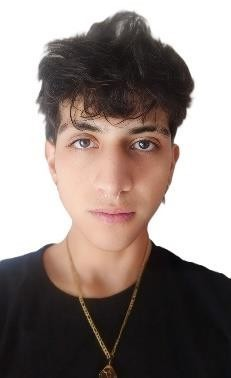
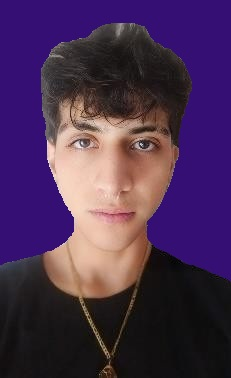
Subiendo cambios

diff --git a/components/hero.html b/components/hero.html
@@ -25,16 +25,69 @@
                     </div>
                 </div>
                 <div class="col-lg-6 text-center">
-                    <div class="profile-container">
+                    <div class="profile-image-container">
+                        <svg class="hero-svg" viewBox="0 0 800 800" xmlns="http://www.w3.org/2000/svg">
+                        <!-- Resplandor azul -->
+                        <circle cx="400" cy="350" r="250" fill="#3b82f6" opacity="0.1" filter="url(#blur)"/>
 
-                            <img src="img/Didier-Najas-photo.jpg" alt="Didier Najas" class="profile-image" loading="lazy">
+                        <defs>
+                            <filter id="blur"><feGaussianBlur stdDeviation="60"/></filter>
+                            <filter id="soft"><feGaussianBlur stdDeviation="6"/></filter>
+                            <filter id="glow"><feGaussianBlur stdDeviation="4" result="b"/><feMerge><feMergeNode in="b"/><feMergeNode in="SourceGraphic"/></feMerge></filter>
+                        </defs>
 
-                            <div class="floating-icons">
-                                <span class="icon-float"><i class="fab fa-java"></i></span>
-                                <span class="icon-float"><i class="fas fa-leaf"></i></span>
-                                <span class="icon-float"><i class="fab fa-js-square"></i></span>
-                            </div>
-                        </div>
+                        <!-- CAPUCHA (forma grande detrás) -->
+                        <path d="M400 150 C250 150 180 280 190 420 L170 550 L260 500 L280 600 L350 540 
+                                L400 620 L450 540 L520 600 L540 500 L630 550 L610 420 C620 280 550 150 400 150 Z" 
+                                fill="#1e293b" stroke="#3b82f6" stroke-width="4"/>
+
+                        <!-- Interior de la capucha (sombra) -->
+                        <ellipse cx="400" cy="360" rx="145" ry="160" fill="#0f172a"/>
+
+                        <!-- CARA -->
+                        <ellipse cx="400" cy="370" rx="115" ry="125" fill="#f8fafc" filter="url(#soft)"/>
+
+                        <!-- PELO asomando bajo la capucha -->
+                        <path d="M300 280 C320 240 360 230 400 235 C440 230 480 240 500 280 
+                                L490 300 L470 270 L450 300 L430 265 L400 295 L370 265 L350 300 L330 270 L310 300 Z" 
+                                fill="#1e1b4b"/>
+
+                        <!-- VISOR DE CÓDIGO (barra sobre los ojos, estilo cyberpunk) -->
+                        <rect x="290" y="330" width="220" height="50" rx="25" fill="#0f172a" stroke="#3b82f6" stroke-width="3" filter="url(#glow)"/>
+                        
+                        <!-- Líneas de código dentro del visor -->
+                        <g stroke="#60a5fa" stroke-width="3" stroke-linecap="round">
+                            <line x1="315" y1="348" x2="360" y2="348"/>
+                            <line x1="315" y1="362" x2="345" y2="362"/>
+                            <line x1="440" y1="348" x2="485" y2="348"/>
+                            <line x1="455" y1="362" x2="485" y2="362"/>
+                        </g>
+                        <circle cx="400" cy="355" r="8" fill="#fbbf24" filter="url(#glow)"/>
+
+                        <!-- Nariz -->
+                        <path d="M400 395 L397 415 L403 415 Z" fill="#00000" opacity="0.6"/>
+
+                        <!-- Boca (pequeña sonrisa confiada) -->
+                        <path d="M378 440 Q400 452 422 440" stroke="#64748b" stroke-width="3" fill="none" stroke-linecap="round"/>
+
+                        <!-- Collar dorado -->
+                        <path d="M350 500 Q400 545 450 500" stroke="#fbbf24" stroke-width="4" fill="none" stroke-linecap="round"/>
+                        <path d="M400 522 L400 555" stroke="#fbbf24" stroke-width="4" stroke-linecap="round"/>
+                        <circle cx="400" cy="565" r="12" fill="#fbbf24" stroke="#d97706" stroke-width="2"/>
+
+                        <!-- Texto de código flotante (detalles) -->
+                        <text x="100" y="180" font-family="monospace" font-size="25" fill="#FFFFFF" opacity="1">{ }</text>
+                        <text x="660" y="620" font-family="monospace" font-size="25" fill="#FFFFFF" opacity="1">&lt;/&gt;</text>
+                        <text x="90" y="600" font-family="monospace" font-size="25" fill="#FFFFFF" opacity="1">Java</text>
+                        <text x="660" y="170" font-family="monospace" font-size="25" fill="#FFFFFF" opacity="1">Spring</text>
+
+                        <!-- NOMBRE -->
+                        <text x="400" y="690" text-anchor="middle" font-family="monospace" font-size="40" font-weight="bold" fill="#f8fafc">&gt; Cuan Najas<tspan fill="#3b82f6"> _</tspan></text>
+                        <text x="400" y="725" text-anchor="middle" font-family="Poppins, sans-serif" font-size="18" fill="#94a3b8">Backend Developer · Java/Spring Boot</text>
+                        </svg>
+                        <img src="../img/Didier-Najas-photo.jpg" alt="Perfil de Didier Najas" class="hero-photo">
+                    </div>
+                        
                 </div>
             </div>
         </div>

diff --git a/css/hero.css b/css/hero.css
@@ -311,3 +311,53 @@
         font-size: 3rem;
     }
 }
+
+/* Hero SVG responsive */
+.hero-svg {
+    width: 280%;
+    height: auto;
+    max-width: 280%;
+    display: block;
+    margin: 0 auto;
+}
+
+/* Hover effect for profile image */
+.profile-image-container {
+    position: relative;
+    width: 280px; /* Adjust as needed */
+    height: 280px; /* Adjust as needed */
+    left: 50%;
+    transform: translateX(-50%);
+}
+
+.hero-svg
+{
+    position: absolute;
+    width: 400%;
+    height: 200%;
+    right: -100%;
+    top: -50%;
+    object-fit: cover;
+    transition: opacity 0.3s ease;
+}
+.hero-photo {
+    position: absolute;
+    top: -15%;
+    left: 0;
+    width: 120%;
+    height: 121%;
+    object-fit: cover;
+    transition: opacity 1s ease;
+}
+
+.hero-photo {
+    opacity: 0;
+}
+
+.profile-image-container:hover .hero-svg {
+    opacity: 1s;
+}
+
+.profile-image-container:hover .hero-photo {
+    opacity: 1;
+}
